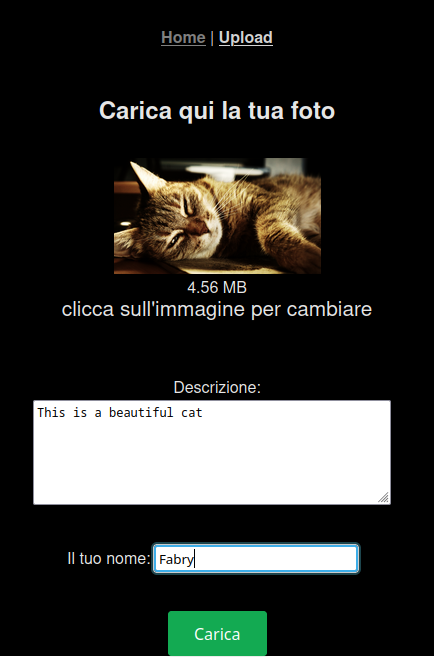
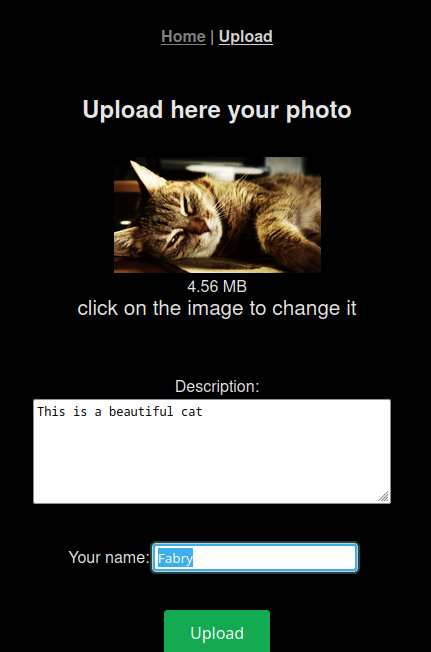
Change to English

diff --git a/src/vue/src/views/Upload.vue b/src/vue/src/views/Upload.vue
@@ -1,6 +1,6 @@
 <template>
   <div class="upload">
-    <h2>Carica qui la tua foto</h2>
+    <h2>Upload here your photo</h2>
     <div class="buttons-upload">
       <UploadImage 
           class="btn-primary"
@@ -12,33 +12,33 @@
           ref="upload"
           @input-filter="inputFilter"
           v-model="files" >
-         <button v-if="!files.length" class="btn">Seleziona un'immagine</button>
+         <button v-if="!files.length" class="btn">Select an image</button>
          <div v-for="file in files" :key="file.id">
            <div><img class="image-thumb" v-if="file.thumb" :src="file.thumb" /></div>
            <div>{{formatSize(file.size)}}</div>
            <div class="transfer-status" v-if="file.error">{{file.error}}</div>
-           <div class="transfer-status" v-else-if="file.success">fatto, clicca sull'immagine per cambiare</div>
-           <div class="transfer-status" v-else-if="file.active">trasferimento  <img src="../assets/loading.gif"/></div>
+           <div class="transfer-status" v-else-if="file.success">done, click on the image to change it</div>
+           <div class="transfer-status" v-else-if="file.active">transfer  <img src="../assets/loading.gif"/></div>
            <div class="transfer-status" v-else-if="!!file.error">{{file.error}}</div>
-           <div class="transfer-status" v-else>clicca sull'immagine per cambiare</div>
+           <div class="transfer-status" v-else>click on the image to change it</div>
          </div>
       </UploadImage>
     </div>
     <div class="text-input-group">
       <div class="form-group">
-          <label>Descrizione:
+          <label>Description:
               <textarea cols="40" rows="5" v-model="description" class="form-description"/>
           </label>
       </div>
       <div class="form-group">
-          <label>Il tuo nome:
+          <label>Your name:
               <input type="text" v-model="author" class="form-author" />
           </label>
       </div>
       </div>
     <div>
-      <button v-show="(!$refs.upload || !$refs.upload.active) && files.length" @click.prevent="uploadFile($refs)" class="btn" type="btn">Carica</button>
-      <button v-show="$refs.upload && $refs.upload.active" @click.prevent="$refs.upload.active = false" class="btn-stop" type="btn">Ferma</button>
+      <button v-show="(!$refs.upload || !$refs.upload.active) && files.length" @click.prevent="uploadFile($refs)" class="btn" type="btn">Upload</button>
+      <button v-show="$refs.upload && $refs.upload.active" @click.prevent="$refs.upload.active = false" class="btn-stop" type="btn">Stop</button>
     </div>
   </div>
 </template>
